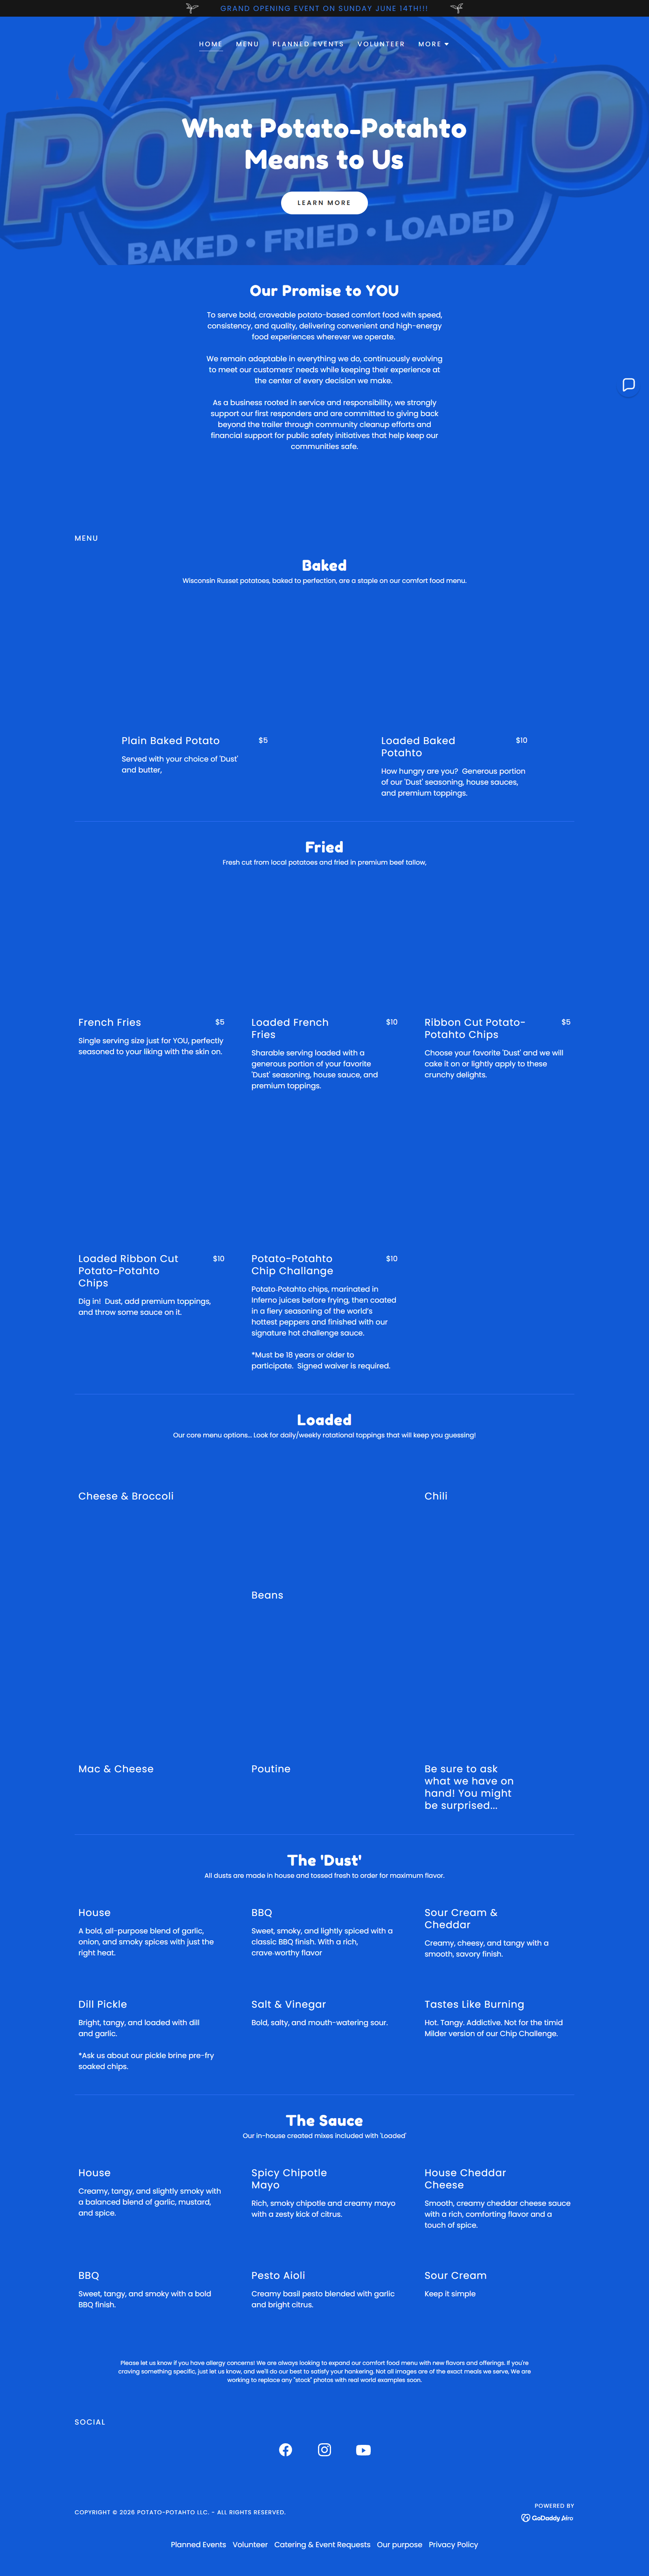
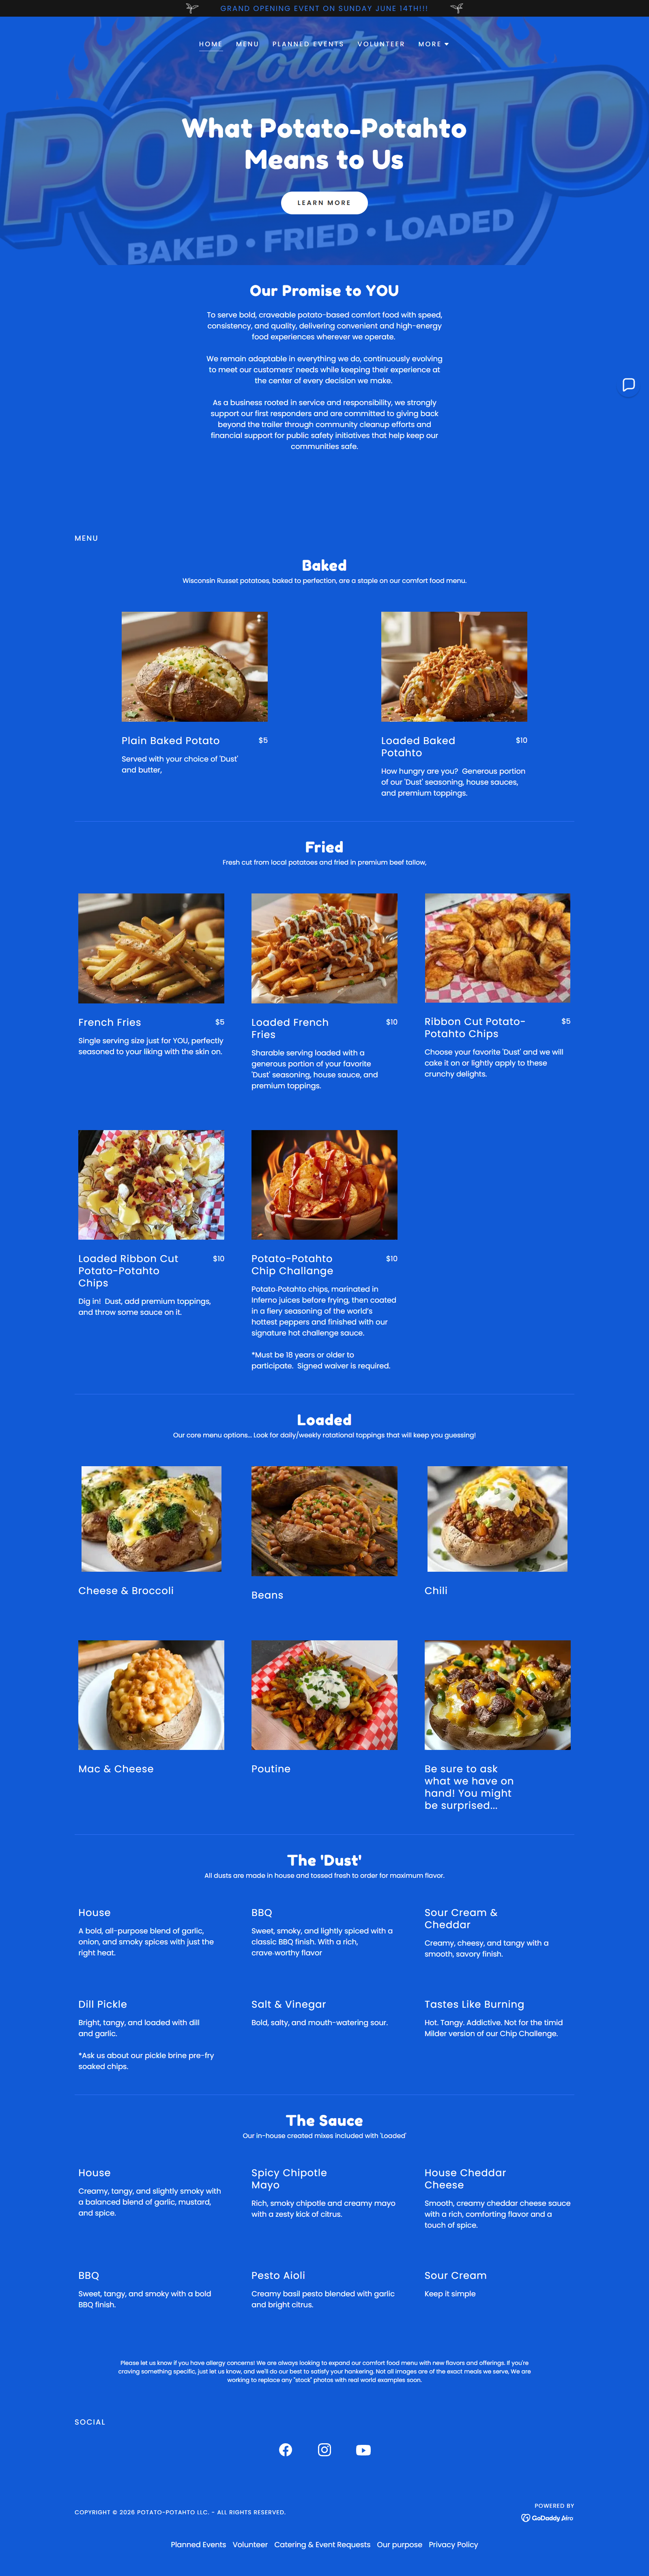
Auto-scroll case-study pages before capture to trigger scroll-reveals
The Potato-Potahto Netlify site uses IntersectionObserver fade-ins (same
pattern this site uses with .reveal). Puppeteer was capturing at y=0
without scrolling, so any element below the fold stayed at opacity:0
and rendered as blank space — visitors saw a hero then a 700-1000px
void where OUR MISSION and the 3-column section should be.

Added autoScrollPage() that walks the page top-to-bottom in 120px steps
(80ms cadence), returns to y=0, settles 900ms, then snaps. New flag
scrollFirst on per-site entries turns it on; only the two case-study
captures need it. Verified by file size: before 1.1MB→3.3MB, after
2.3MB→4.1MB — that's the rendered content showing up.

diff --git a/scripts/screenshot-portfolio.js b/scripts/screenshot-portfolio.js
@@ -17,9 +17,33 @@ const SITES = [
   { slug: 'portfolio-breakreturns',    url: 'https://breakreturns.com' },
   // Case study: same local business, two builders. Full-page so the
   // contrast carries even after the visitor stops scrolling on /businesses.
-  { slug: 'case-potatopotahto-before', url: 'https://potato-potahto.com',         fullPage: true },
-  { slug: 'case-potatopotahto-after',  url: 'https://potato-potahto.netlify.app', fullPage: true }
+  // scrollFirst triggers IntersectionObserver-driven fade-ins before capture
+  // so the screenshot shows real content, not opacity:0 placeholders.
+  { slug: 'case-potatopotahto-before', url: 'https://potato-potahto.com',         fullPage: true, scrollFirst: true },
+  { slug: 'case-potatopotahto-after',  url: 'https://potato-potahto.netlify.app', fullPage: true, scrollFirst: true }
 ];
+
+// Slow-scroll the page from top to bottom so scroll-triggered animations
+// (reveals, lazy images, IntersectionObserver fade-ins) actually fire,
+// then return to top before the screenshot.
+async function autoScrollPage(page) {
+  await page.evaluate(async () => {
+    await new Promise((resolve) => {
+      let y = 0;
+      const step = 120;
+      const tick = setInterval(() => {
+        const max = document.body.scrollHeight;
+        window.scrollBy(0, step);
+        y += step;
+        if (y >= max) {
+          clearInterval(tick);
+          window.scrollTo(0, 0);
+          setTimeout(resolve, 900);
+        }
+      }, 90);
+    });
+  });
+}
 
 (async () => {
   const browser = await puppeteer.launch({
@@ -33,6 +57,9 @@ const SITES = [
     try {
       await page.goto(site.url, { waitUntil: 'networkidle2', timeout: 45000 });
       await new Promise(r => setTimeout(r, 2000));
+      if (site.scrollFirst) {
+        await autoScrollPage(page);
+      }
       const outPath = path.join(OUT_DIR, `${site.slug}.png`);
       await page.screenshot({ path: outPath, type: 'png', fullPage: !!site.fullPage });
       const kb = (fs.statSync(outPath).size / 1024).toFixed(1);